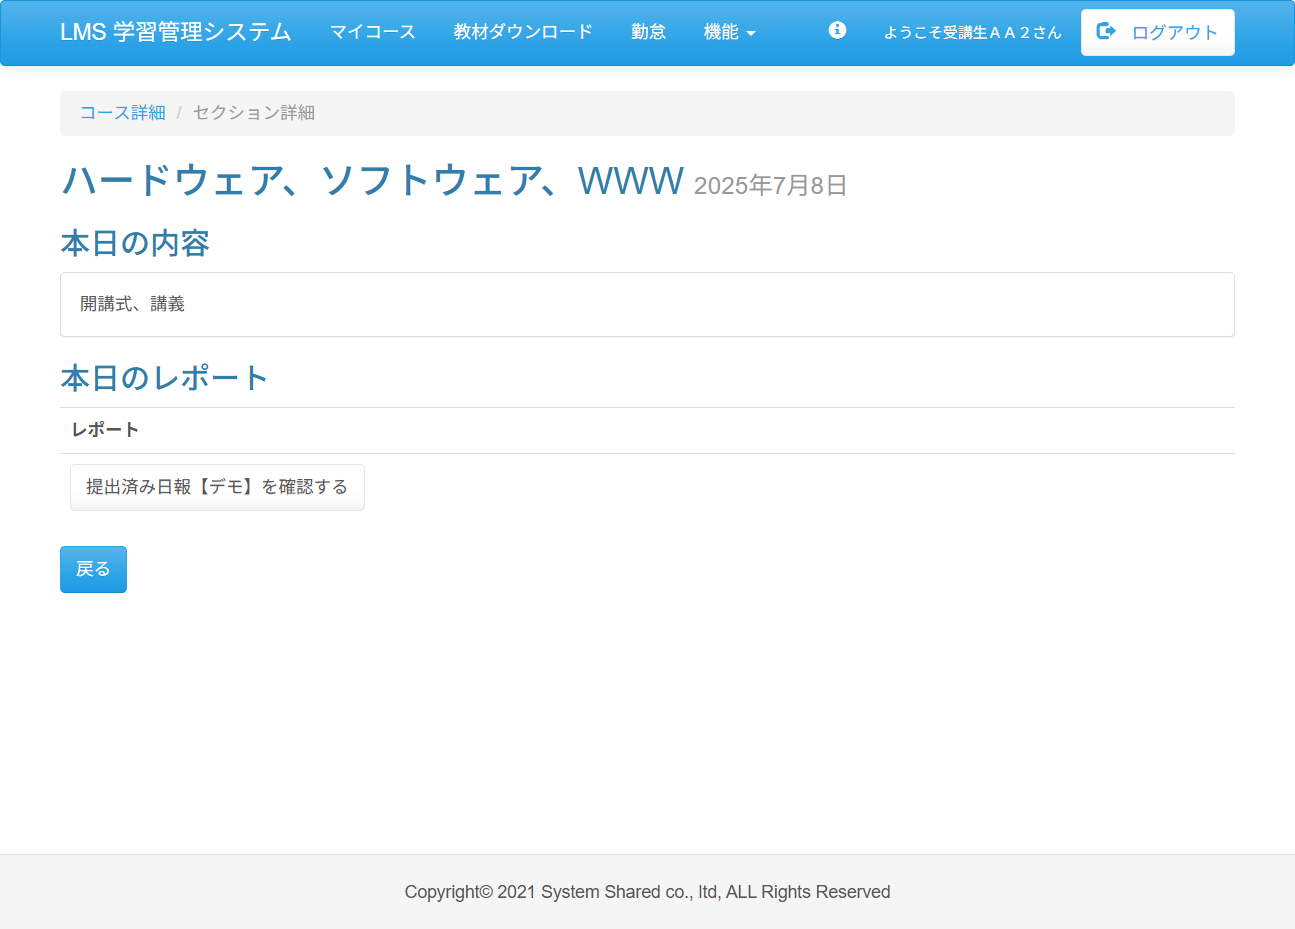
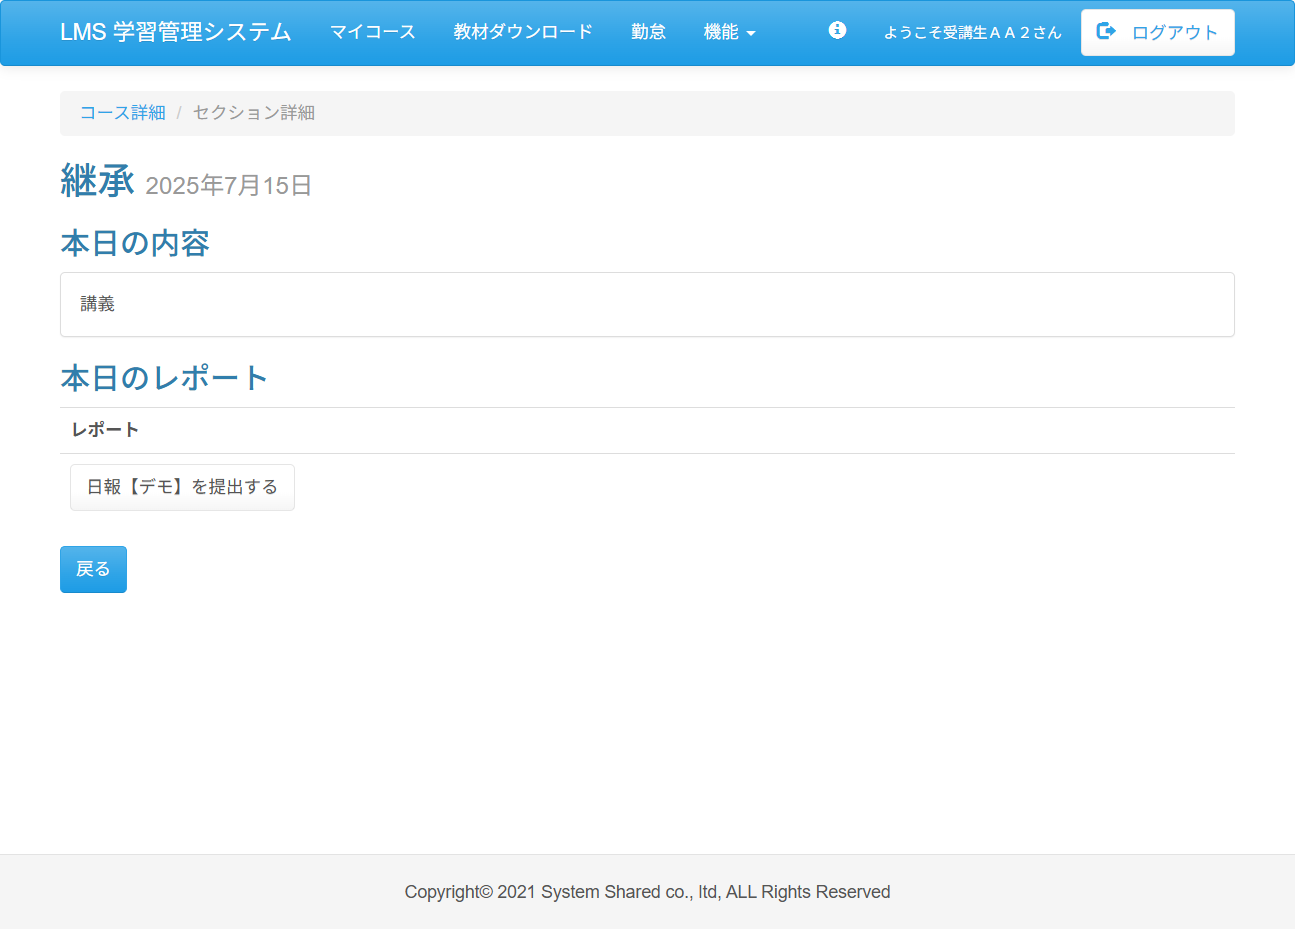
fix:Case07 落合 test05を修正

Changed region(s): [[0.0309, 0.1561, 0.6486, 0.2185], [0.0618, 0.4995, 0.278, 0.5307], [0.0618, 0.3122, 0.1544, 0.3434]]

diff --git a/test_code_creation_name/src/test/java/jp/co/sss/lms/ct/f03_report/Case07.java b/test_code_creation_name/src/test/java/jp/co/sss/lms/ct/f03_report/Case07.java
@@ -3,6 +3,8 @@ package jp.co.sss.lms.ct.f03_report;
 import static jp.co.sss.lms.ct.util.WebDriverUtils.*;
 import static org.junit.jupiter.api.Assertions.*;
 
+import java.util.List;
+
 import org.junit.jupiter.api.AfterAll;
 import org.junit.jupiter.api.BeforeAll;
 import org.junit.jupiter.api.DisplayName;
@@ -11,6 +13,7 @@ import org.junit.jupiter.api.Order;
 import org.junit.jupiter.api.Test;
 import org.junit.jupiter.api.TestMethodOrder;
 import org.openqa.selenium.By;
+import org.openqa.selenium.JavascriptExecutor;
 import org.openqa.selenium.WebElement;
 
 /**
@@ -65,7 +68,10 @@ public class Case07 {
 
 		loginButton.click();
 
-		assertEquals(title, webDriver.getTitle());
+		visibilityTimeout(By.tagName("h2"), 6);
+		// assert
+		String pageTitle = webDriver.getTitle();
+		assertEquals("コース詳細 | LMS", pageTitle);
 
 		getEvidence(new Object() {
 		});
@@ -76,12 +82,39 @@ public class Case07 {
 	@DisplayName("テスト03 未提出の研修日の「詳細」ボタンを押下しセクション詳細画面に遷移")
 	void test03() {
 
-		WebElement detailButton = webDriver.findElement(By.cssSelector("input[value='詳細']"));
+		// 一覧の行が表示されるまで待機
+		visibilityTimeout(
+				By.cssSelector("tbody tr"), 6);
 
-		detailButton.click();
+		// 一覧の行をすべて取得
+		List<WebElement> rows = webDriver.findElements(
+				By.cssSelector("tbody tr"));
 
-		visibilityTimeout(By.tagName("body"), 5);
+		WebElement report = null;
 
+		// 「未提出」の行を探す
+		for (WebElement row : rows) {
+			if (row.getText().contains("未提出")) {
+				report = row;
+				break;
+			}
+		}
+
+		// 「未提出」の行にある「詳細」ボタンを取得
+		WebElement detailButton = report.findElement(
+				By.cssSelector("input[type='submit'][value='詳細']"));
+
+		JavascriptExecutor js = (JavascriptExecutor) webDriver;
+		js.executeScript("arguments[0].click();", detailButton);
+
+		// セクション詳細画面が表示されるまで待機
+		visibilityTimeout(
+				By.cssSelector("#sectionDetail h2"), 6);
+
+		String title = "セクション詳細 | LMS";
+		assertEquals(title, webDriver.getTitle());
+
+		// エビデンスを保存
 		getEvidence(new Object() {
 		});
 	}
@@ -90,6 +123,7 @@ public class Case07 {
 	@Order(4)
 	@DisplayName("テスト04 「提出する」ボタンを押下しレポート登録画面に遷移")
 	void test04() {
+		visibilityTimeout(By.tagName("h2"), 5);
 
 		WebElement reportButton = webDriver.findElement(By.cssSelector("input[value='日報【デモ】を提出する']"));
 
@@ -99,6 +133,8 @@ public class Case07 {
 
 		assertTrue(webDriver.findElement(By.tagName("h2")).isDisplayed());
 
+		visibilityTimeout(By.tagName("h2"), 5);
+
 		getEvidence(new Object() {
 		});
 	}
@@ -107,13 +143,20 @@ public class Case07 {
 	@Order(5)
 	@DisplayName("テスト05 報告内容を入力して「提出する」ボタンを押下し確認ボタン名が更新される")
 	void test05() {
+
 		webDriver.findElement(By.id("content_0")).sendKeys("本日の研修内容を報告します。");
 
 		webDriver.findElement(By.cssSelector("button[type='submit']")).click();
 
-		visibilityTimeout(By.tagName("boby"), 5);
+		WebElement inputSubmitValue = webDriver.findElement(
+				By.cssSelector("input[type='submit'][value='提出済み日報【デモ】を確認する']"));
+		String inputValue = inputSubmitValue.getAttribute("value");
+		// println 確認用
+		//		System.out.println("ボタン名：" + inputValue);
 
-		assertTrue(webDriver.findElement(By.xpath("//span[text()='提出済み']")).isDisplayed());
+		// assert
+		assertEquals("提出済み日報【デモ】を確認する", inputValue);
+		visibilityTimeout(By.tagName("h2"), 6);
 
 		getEvidence(new Object() {
 		});
